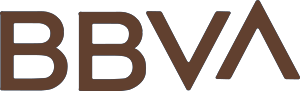
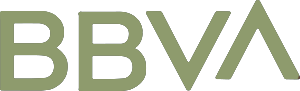
updates

diff --git a/event-section.css b/event-section.css
@@ -28,11 +28,11 @@
 /* ===== HEADER ===== */
 .event-header {
     display: flex;
-    flex-direction: column; /* <--- ESTO ES LA CLAVE: Obliga a que se apilen verticalmente */
-    align-items: center;    /* Centra todo horizontalmente */
+    flex-direction: column; 
+    align-items: center;    
     justify-content: center;
     text-align: center;
-    width: 100%;            /* Asegura que ocupe el ancho disponible */
+    width: 100%;            
     margin-bottom: 50px;
 }
 
@@ -48,7 +48,7 @@
 .event-title {
     font-family: 'Pinyon Script', cursive;
     font-size: clamp(2.5rem, 8vw, 4.5rem);
-    color: var(--dark-text);
+    color: #8e9b6d; 
     margin-bottom: 25px;
     position: relative;
     display: inline-block;
@@ -163,7 +163,7 @@
 .card-name {
     font-family: 'Cormorant Garamond', serif;
     font-size: 1.5rem;
-    color: var(--dark-text);
+    color: #8e9b6d;
     font-weight: 600;
     margin-bottom: 15px;
     line-height: 1.3;
@@ -287,7 +287,7 @@
 .dresscode-title {
     font-family: 'Cormorant Garamond', serif;
     font-size: 2.5rem;
-    color: var(--dark-text);
+    color: #8e9b6d;
     font-weight: 600;
     margin-bottom: 20px;
     letter-spacing: 2px;
@@ -302,33 +302,86 @@
 }
 
 .dresscode-desc strong {
-    color: var(--dark-text);
+    color: #8e9b6d;
     font-weight: 600;
 }
 
-/* Imagen lado derecho — sin borde, sin fondo, pegada al card */
+/* Imagen lado derecho — imagen más pequeña + paleta de colores */
 .dresscode-image {
     position: relative;
-    overflow: hidden;
+    overflow: visible;
     border-radius: 0 20px 20px 0;
     min-height: 320px;
-    background: transparent; /* Asegura que no tenga color de fondo raro */
+    background: transparent;
     
-    /* ESTO ES NUEVO: Centra el contenido y evita colapsos */
+    /* Layout vertical: imagen arriba, paleta abajo */
     display: flex;
+    flex-direction: column;
     align-items: center;
     justify-content: center;
-    padding: 20px;
+    padding: 30px 20px 20px;
+    gap: 20px;
 }
 
 .dresscode-image img {
-    position: relative; /* Ya no es absolute */
-    width: 100%;
-    height: auto;       /* Mantiene su proporción original */
-    max-height: 100%;   /* No deja que se salga de alto */
+    width: auto;
+    height: auto;
+    max-width: 70%;      /* Imagen más pequeña (70% del espacio) */
+    max-height: 200px;   /* Altura máxima controlada */
     object-fit: contain;
     z-index: 10;
 }
+
+/* Paleta de colores sugeridos */
+.color-palette {
+    display: flex;
+    flex-direction: column;
+    align-items: center;
+    gap: 12px;
+    width: 100%;
+}
+
+.color-palette-label {
+    font-size: 0.75rem;
+    letter-spacing: 2px;
+    text-transform: uppercase;
+    color: var(--text-color);
+    font-weight: 600;
+}
+
+.color-swatches {
+    display: flex;
+    gap: 10px;
+    justify-content: center;
+    flex-wrap: wrap;
+}
+
+.color-swatch {
+    width: 35px;
+    height: 35px;
+    border-radius: 50%;
+    border: 2px solid rgba(255,255,255,0.9);
+    box-shadow: 
+        0 2px 8px rgba(0,0,0,0.15),
+        inset 0 1px 2px rgba(255,255,255,0.5);
+    transition: transform 0.2s ease, box-shadow 0.2s ease;
+    cursor: pointer;
+}
+
+.color-swatch:hover {
+    transform: scale(1.15);
+    box-shadow: 
+        0 4px 12px rgba(0,0,0,0.25),
+        inset 0 1px 2px rgba(255,255,255,0.5);
+}
+
+/* Colores específicos basados en la paleta */
+.color-swatch.blue { background: #a8c5d4; }
+.color-swatch.pink { background: #e8b8c8; }
+.color-swatch.mauve { background: #d4b8c8; }
+.color-swatch.sage { background: #a8b89c; }
+.color-swatch.gold { background: #d4c4a0; }
+.color-swatch.coral { background: #e8b49c; }
 
 /* Placeholder elegante mientras no hay imagen */
 .dresscode-placeholder {
@@ -403,7 +456,18 @@
 
     .dresscode-image {
         border-radius: 0 0 20px 20px;
-        min-height: 280px;
+        min-height: 300px;
+        padding: 25px 15px 15px;
+    }
+    
+    .dresscode-image img {
+        max-width: 60%;      /* Más pequeña en móvil */
+        max-height: 180px;
+    }
+    
+    .color-swatch {
+        width: 32px;
+        height: 32px;
     }
 
     .dresscode-title {

diff --git a/index.html b/index.html
@@ -170,7 +170,7 @@
         <section class="story-section" id="story">
             <div class="story-container">
                 <div style="text-align: center; padding: 40px 20px;">
-                    <h2 style="font-family: 'Pinyon Script', cursive; font-size: 3rem; color: var(--dark-text); margin-bottom: 20px;">Presentación</h2>
+                    <h2 style="font-family: 'Pinyon Script', cursive; font-size: 3rem; color: #8e9b6d; margin-bottom: 20px;">Presentación</h2>
                 </div>
                 <div class="story-card">
                     <div class="story-content">
@@ -217,7 +217,7 @@
                                     <circle cx="12" cy="12" r="10"/>
                                     <polyline points="12 6 12 12 16 14"/>
                                 </svg>
-                                <span>4:00 PM</span>
+                                <span>3:00 PM</span>
                             </div>
                             <a href="https://maps.app.goo.gl/xmKkyL5GC4g9FkRK8" 
                             target="_blank" class="maps-btn">
@@ -246,11 +246,24 @@
                                 ¡Anímate a brillar con nosotros!
                             </p>
                         </div>
-
                         <div class="dresscode-image">
+                            <!-- Imagen de ropa más pequeña -->
                             <img src="./images/clothes.png" alt="Ejemplo Dress Code" class="dc-clean-img">
+                            
+                            <!-- Paleta de colores sugeridos -->
+                            <div class="color-palette">
+                                <p class="color-palette-label">Colores Sugeridos</p>
+                                <div class="color-swatches">
+                                    <div class="color-swatch blue" title="Azul claro"></div>
+                                    <div class="color-swatch pink" title="Rosa"></div>
+                                    <div class="color-swatch mauve" title="Malva"></div>
+                                    <div class="color-swatch sage" title="Verde salvia"></div>
+                                    <div class="color-swatch gold" title="Dorado"></div>
+                                    <div class="color-swatch coral" title="Coral"></div>
+                                </div>
+                            </div>
                         </div>
-                    </div>
+</div>
 
                 </div><!-- fin event-grid -->
             </div>
@@ -320,19 +333,10 @@
                         <img src="./images/img2.jpg" alt="Foto 2" class="polaroid-img">
                     </div>
                     <div class="polaroid">
-                        <img src="./images/img3.jpg" alt="Foto 3" class="polaroid-img">
-                    </div>
-                    <div class="polaroid">
                         <img src="./images/img4.jpg" alt="Foto 4" class="polaroid-img">
                     </div>
                     <div class="polaroid">
                         <img src="./images/img5.jpg" alt="Foto 5" class="polaroid-img">
-                    </div>
-                    <div class="polaroid">
-                        <img src="./images/img6.jpg" alt="Foto 6" class="polaroid-img">
-                    </div>
-                    <div class="polaroid">
-                        <img src="./images/img7.jpg" alt="Foto 7" class="polaroid-img">
                     </div>
                     <div class="polaroid">
                         <img src="./images/img8.jpg" alt="Foto 8" class="polaroid-img">
@@ -558,7 +562,7 @@
                 const countdown = document.getElementById('countdown');
                 if (!countdown) return;
                 
-                const weddingDate = new Date('2026-06-06T16:00:00').getTime();
+                const weddingDate = new Date('2026-06-06T15:00:00').getTime();
                 const now = new Date().getTime();
                 const distance = weddingDate - now;
                 

diff --git a/navbar_style.css b/navbar_style.css
@@ -34,7 +34,7 @@
     left: 40px;
     font-family: 'Great Vibes', cursive;
     font-size: 2rem;
-    color: var(--dark-text);
+    color: #8e9b6d;
     letter-spacing: 2px;
     text-shadow: 1px 1px 2px rgba(255, 255, 255, 0.5);
     user-select: none;
@@ -203,7 +203,7 @@
 .menu-header h2 {
     font-family: 'Pinyon Script', cursive;
     font-size: 2.8rem;
-    color: var(--dark-text);
+    color: #8e9b6d;
     margin-bottom: 8px;
     line-height: 1;
 }

diff --git a/polaroid-gallery.css b/polaroid-gallery.css
@@ -32,7 +32,7 @@
 .gallery-title {
     font-family: 'Pinyon Script', cursive;
     font-size: clamp(2.5rem, 8vw, 4.5rem);
-    color: var(--dark-text);
+    color: #8e9b6d;
     margin-bottom: 20px;
     position: relative;
     display: inline-block;

diff --git a/story-section.css b/story-section.css
@@ -51,7 +51,7 @@
 .story-title {
     font-family: 'Pinyon Script', cursive;
     font-size: clamp(2.5rem, 8vw, 4.5rem);
-    color: var(--dark-text);
+    color: #8e9b6d;
     margin-bottom: 20px;
     position: relative;
     display: inline-block;

diff --git a/rsvp-section.css b/rsvp-section.css
@@ -37,7 +37,7 @@
 .rsvp-title {
     font-family: 'Pinyon Script', cursive;
     font-size: clamp(2.5rem, 8vw, 4.5rem);
-    color: var(--dark-text);
+    color: #8e9b6d;
     margin-bottom: 15px;
 }
 

diff --git a/gifts-section.css b/gifts-section.css
@@ -18,7 +18,7 @@
 .gifts-title {
     font-family: 'Pinyon Script', cursive;
     font-size: 3.5rem;
-    color: var(--gold);
+    color: #8e9b6d;
     margin-bottom: 20px;
 }
 
